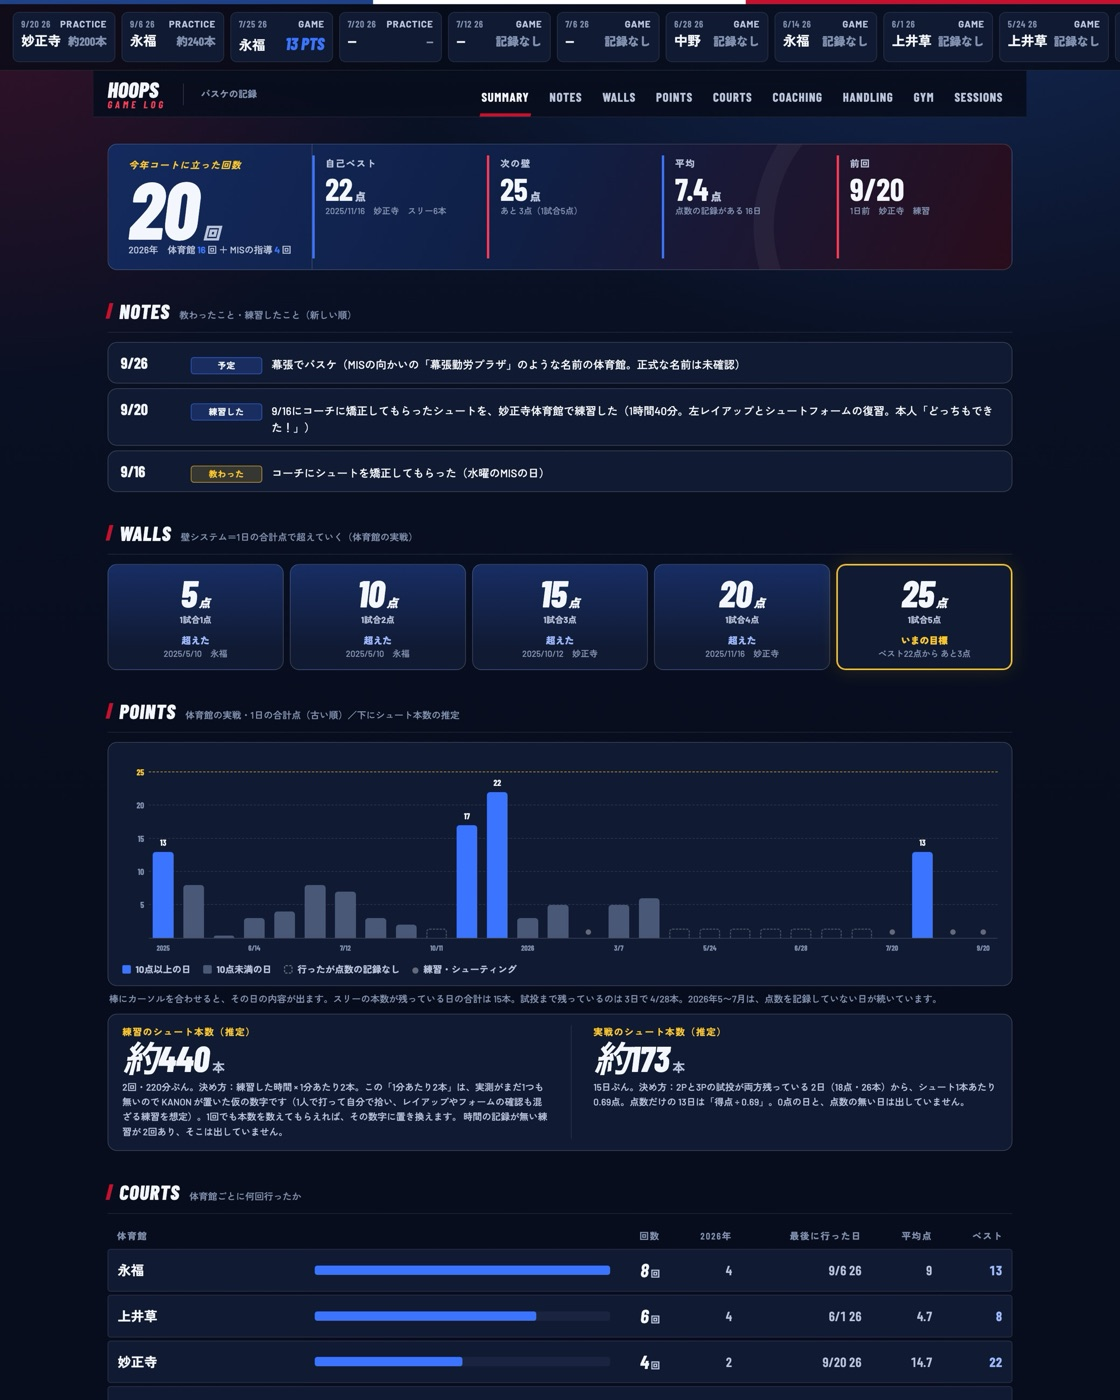
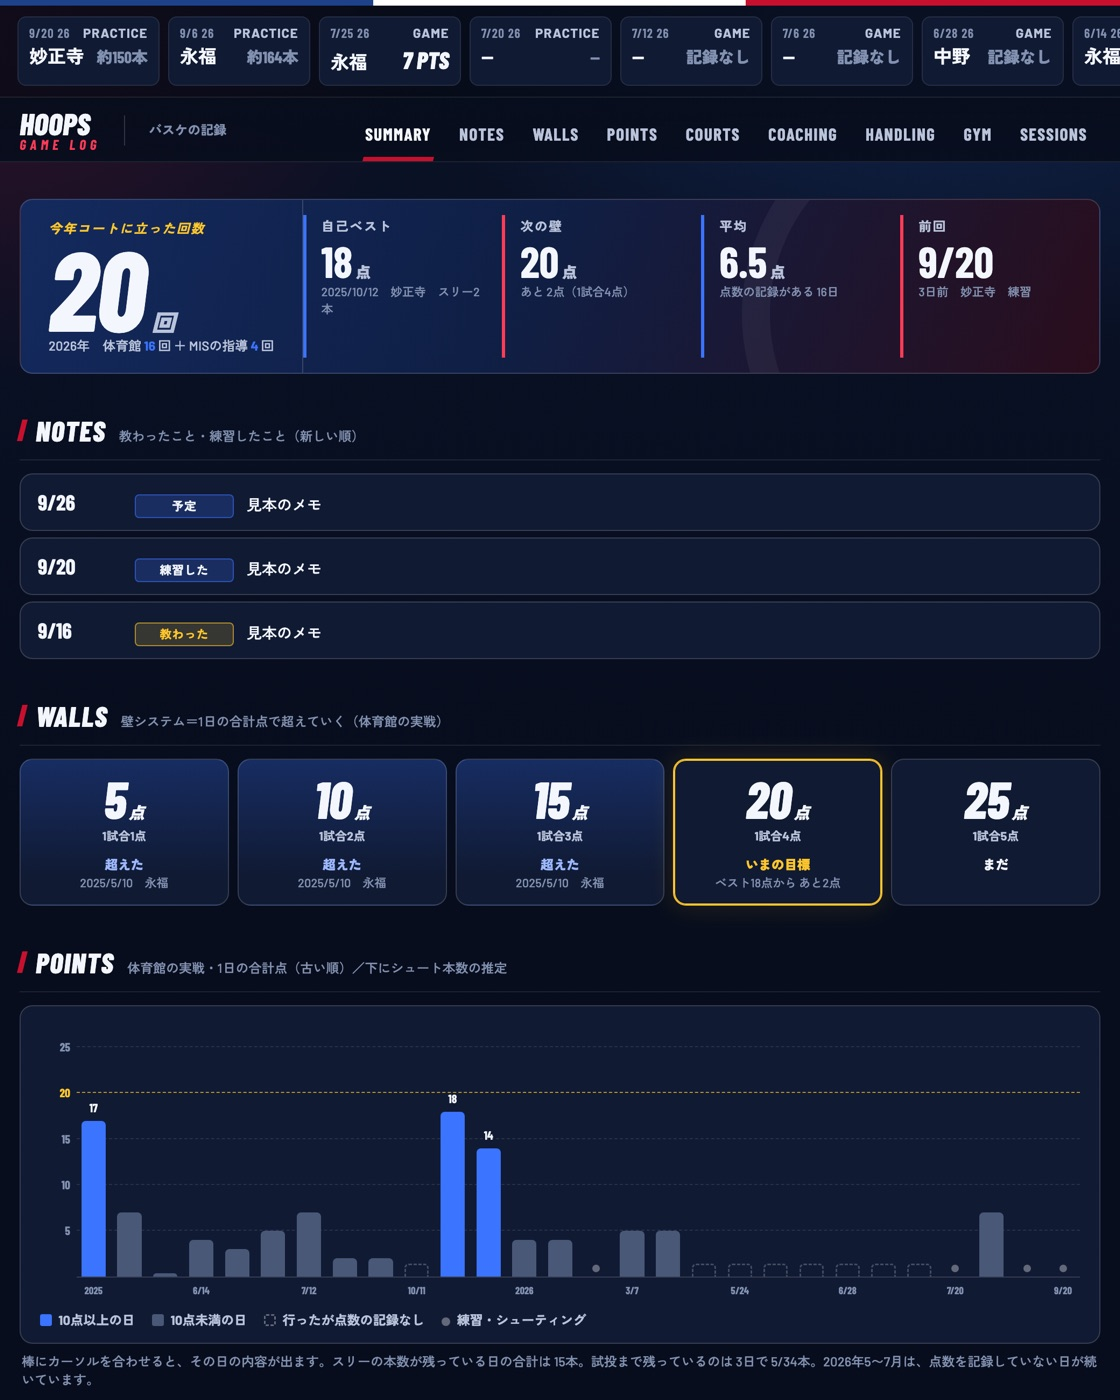
Web：画面を全部「見本の数字」に差し替え（実際の記録を出さない）

diff --git a/web/index.html b/web/index.html
@@ -10,7 +10,7 @@
 <style>
   /* 2026-09-23 本人「ウェブサイトのポートフォリオのWebサイトを作りたい」→ riseisasahara.com/web/。
      書き方は個人サイトと同じ：事実だけ（何をするページか・見た目・できること・しくみ・アドレスと見られる人）。評価・自己採点は書かない。
-     画面の画像は人に見せる用に伏せたもの（生徒名は「生徒A」・予定の題名なし）。体の数値とお金のページは載せない。 */
+     ★2026-09-23 本人「作ったサイトから、俺の情報は出ないようにできる？」→ 画面は全部「見本の数字」（automation/portfolio_fake.py で作り物のデータから撮る）。体の数値とお金のページは載せない。 */
   :root { --bg: #ffffff; --ink: #111; --ink-2: #444; --muted: #777; --edge: #e6e6e6; --panel: #f4f4f2; --acc: #111; }
   * { box-sizing: border-box; } html { background: var(--bg); scroll-behavior: smooth; }
   body { margin: 0; color: var(--ink); font-family: "Inter", "Noto Sans JP", "Hiragino Sans", sans-serif; font-size: 15.5px; line-height: 1.75; font-weight: 500; }
@@ -44,7 +44,7 @@
   <header class="hero">
     <div class="kick">Web — 2026</div>
     <h1>つくったWebサイト</h1>
-    <p class="lead">2026年9月に作ったWebサイトと、Webの道具。何をするページか、見た目、できること、しくみを、1つずつ書いています。画面の画像は、名前や予定など人に関わる部分を伏せたものです。</p>
+    <p class="lead">2026年9月に作ったWebサイトと、Webの道具。何をするページか、見た目、できること、しくみを、1つずつ書いています。画面の画像は、どれも見本の数字（作り物のデータ）で表示したものです。実際の記録は載せていません。</p>
     <div class="facts">
       <div><b>13<small>件</small></b><span>ここに載せたもの</span></div>
       <div><b>19<small>日</small></b><span>2026-09-05 〜 09-23</span></div>
@@ -100,7 +100,7 @@
     <section class="item" id="s05"><div class="grid">
       <div class="shot"><div class="bar"><i></i><i></i><i></i><span>tracker.riseisasahara.com/2k26</span></div><a href="img/2k26.jpg"><img src="img/2k26.jpg" alt="1年ぶんの試合記録" loading="lazy"></a></div>
       <div class="side"><div class="no">05</div><h2>1年ぶんの試合記録<small>Season archive</small></h2>
-        <p class="what">前作の1年ぶん、526試合の記録。ゲーム機に残っていた3,716枚の画面写真から作った。</p>
+        <p class="what">前作の1年ぶんの試合の記録。ゲーム機に残っていた画面写真から作った。</p>
         <dl><div><dt>Design</dt><dd>04 とは別の、前作のゲームの配色（グレー×白）。同じ構成で、色だけを作品ごとに変えた。</dd></div>
           <div><dt>できること</dt><dd><ul><li>月ごと・時間帯ごと・曜日ごとの勝率</li><li>使ったチーム、相手のチーム、相手のランク帯ごとの成績</li><li>3作ぶん（2025・2026・2027）を1つにまとめたページも別にある</li></ul></dd></div>
           <div><dt>しくみ</dt><dd>画面写真の種類（結果・スタッツ・対戦前）を自動で見分け、数字を読み取って台帳に入れる。読み取りの検算つき。</dd></div></dl>
@@ -142,7 +142,7 @@
       <div class="side"><div class="no">09</div><h2>生徒の成績の推移<small>Student report</small></h2>
         <p class="what">指導している高校生の、定期試験の点数・学年順位・偏差値の推移を見せるページ。名前は伏せています。</p>
         <dl><div><dt>Design</dt><dd>黒地に白のドット。折れ線はドットの列、大問ごとの棒はドットの積み上げ、題字の横にゆっくり回るドットの輪。</dd></div>
-          <div><dt>できること</dt><dd><ul><li>年5回×2年ぶんの折れ線。点に触れると順位と偏差値</li><li>指導の前と後の平均の差（+14.5点）</li><li>大問ごとの得点率から、落としやすい大問を色で示す</li><li>次のテストと、前の年の同じ回の点数</li></ul></dd></div>
+          <div><dt>できること</dt><dd><ul><li>年5回×2年ぶんの折れ線。点に触れると順位と偏差値</li><li>指導の前と後の平均の差</li><li>大問ごとの得点率から、落としやすい大問を色で示す</li><li>次のテストと、前の年の同じ回の点数</li></ul></dd></div>
           <div><dt>しくみ</dt><dd>結果が出たら台帳に1行足すだけで、グラフと表に入る。生徒の情報なので合言葉つき。</dd></div></dl>
         <div class="url">合言葉を入れた端末だけ<small>氏名と学校名はページに載せていません</small></div><div class="date">公開 2026-09-20／見た目の更新 2026-09-23</div></div>
     </div></section>
@@ -182,7 +182,7 @@
       <div class="side"><div class="no">13</div><h2>作ったサイトの一覧<small>Index of pages</small></h2>
         <p class="what">作ったページを日付ごとに並べ、押すとそのページへ飛ぶ一覧。合言葉つきのページの入口。</p>
         <dl><div><dt>Design</dt><dd>日付で区切った縦の一覧。1行に、名前・ひとこと・アドレス。</dd></div>
-          <div><dt>できること</dt><dd><ul><li>公開日順に、これまでの全ページ（2026-09-23 時点で 25ページ）</li><li>スマホのホーム画面に置いて、ここから開く</li></ul></dd></div>
+          <div><dt>できること</dt><dd><ul><li>公開日順に、これまでの全ページ</li><li>スマホのホーム画面に置いて、ここから開く</li></ul></dd></div>
           <div><dt>しくみ</dt><dd>新しいページを作ったら、この一覧に1行足す。</dd></div></dl>
         <div class="url">tracker.riseisasahara.com/sites<small>合言葉を入れた端末だけ</small></div><div class="date">公開 2026-09-22</div></div>
     </div></section>
